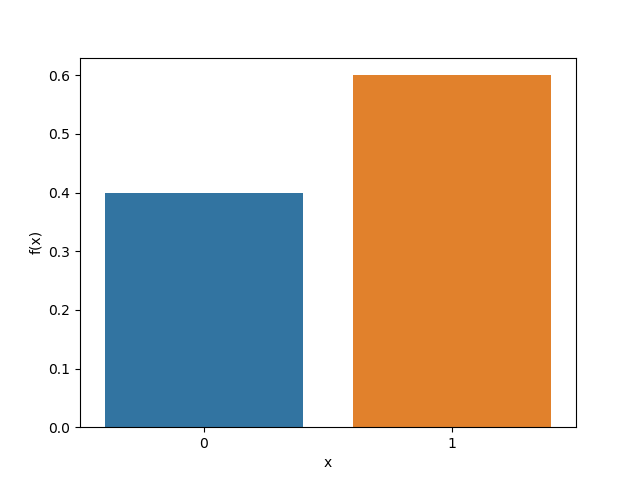
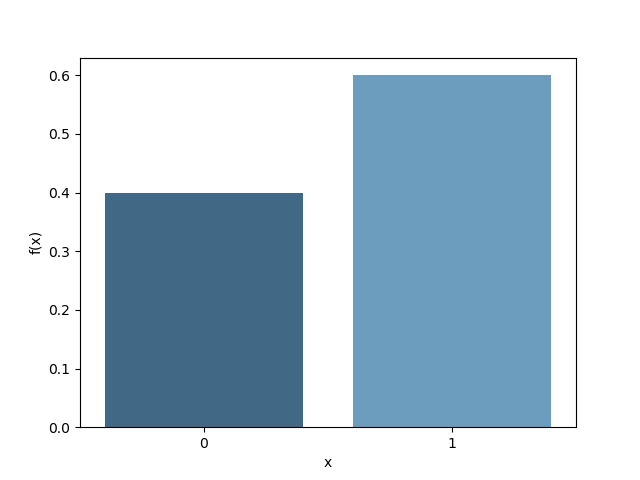
Added more distributions

diff --git a/code/post_5.py b/code/post_5.py
@@ -3,7 +3,7 @@ import seaborn as sns
 import pandas as pd
 import numpy as np
 import matplotlib.pyplot as plt
-from scipy.stats import randint, bernoulli, binom, geom
+from scipy.stats import randint, bernoulli, binom, geom, poisson
 
 stones = ['Space', 'Reality', 'Mind', 'Time', 'Power', 'Soul']
 stones_scores = dict(zip(stones, range(1, 7)))
@@ -38,6 +38,7 @@ ax = sns.barplot(
     x='x',
     y='f(x)',
     data=pd.DataFrame(data=list(zip(x, y)), columns=['x', 'f(x)']),
+    palette="Blues_d",
 )
 plt.savefig("uniform_pmf")
 
@@ -49,6 +50,7 @@ ax = sns.barplot(
     x='x',
     y='f(x)',
     data=pd.DataFrame(data=list(zip(x, y)), columns=['x', 'f(x)']),
+    palette="Blues_d",
 )
 plt.savefig("bernoulli_pmf")
 
@@ -61,18 +63,31 @@ ax = sns.barplot(
     x='x',
     y='f(x)',
     data=pd.DataFrame(data=list(zip(x, y)), columns=['x', 'f(x)']),
+    palette="Blues_d",
 )
 plt.savefig("binomial_pmf")
 
 # geometric distribution
 p = 0.6
-x = np.random.randint(0, 10, 100)
+x = np.random.randint(0, 5, 100)
 y = geom(p).pmf(x)
 ax = sns.barplot(
     x='x',
     y='f(x)',
     data=pd.DataFrame(data=list(zip(x, y)), columns=['x', 'f(x)']),
+    palette="Blues_d",
 )
 plt.savefig("geometric_pmf")
 
+# poisson distribution
+lambda_ = 4
+x = np.random.randint(0, 10, 100)
+y = poisson(p).pmf(x)
+ax = sns.barplot(
+    x='x',
+    y='f(x)',
+    data=pd.DataFrame(data=list(zip(x, y)), columns=['x', 'f(x)']),
+    palette="Blues_d",
+)
+plt.savefig("poisson_pmf")
 
